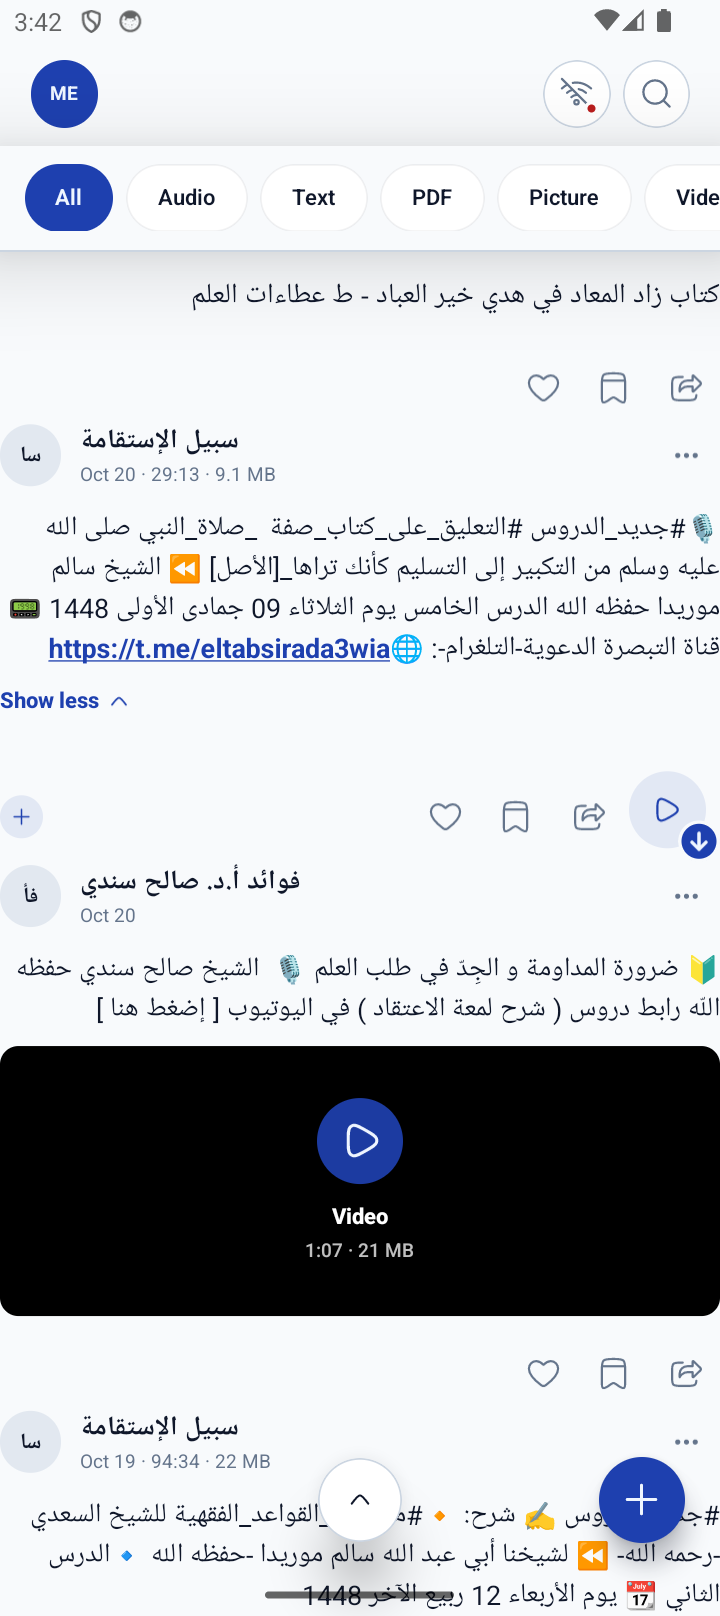
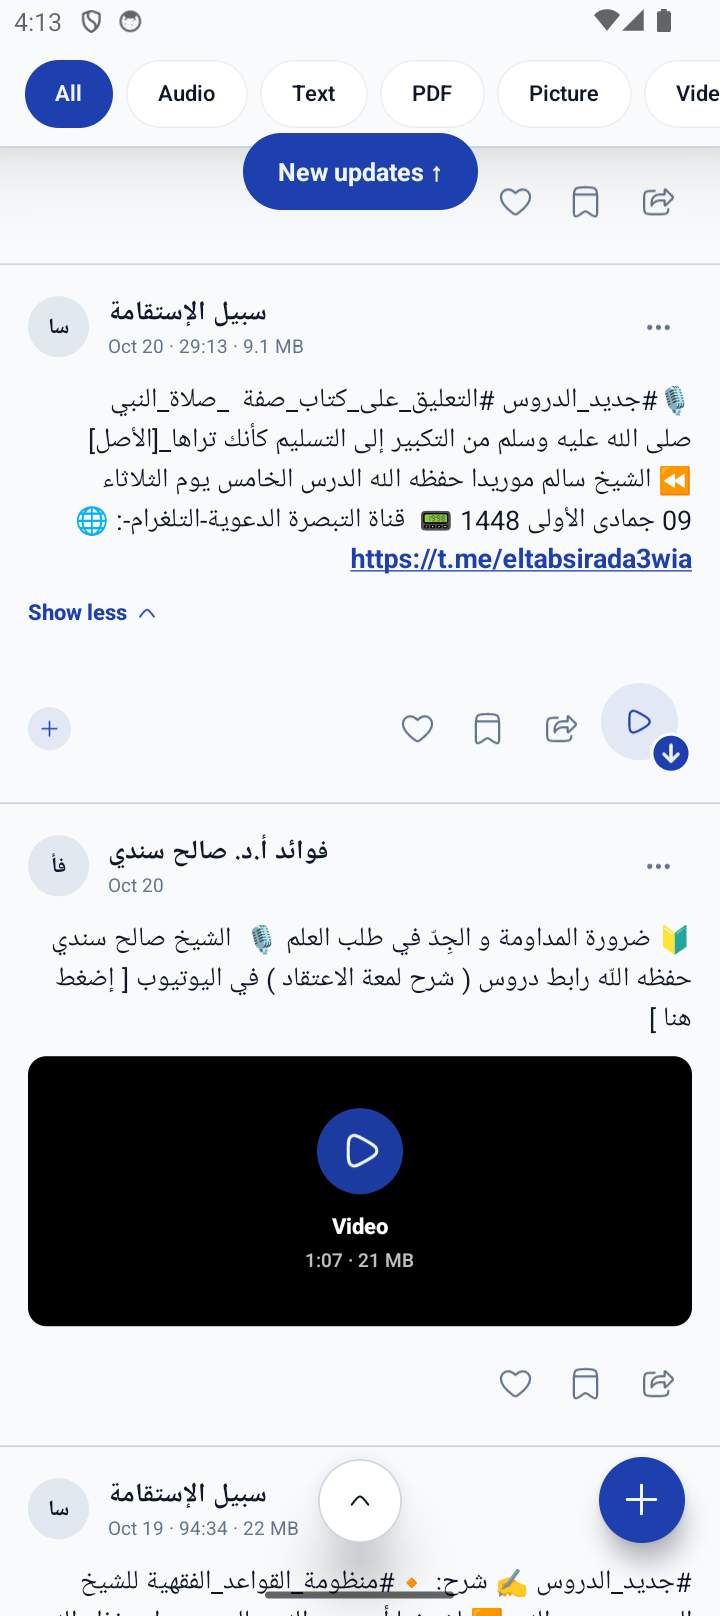
fix(mobile): preserve native card gutters through press styling
Use static card geometry with the existing Android ripple instead of a style callback that NativeWind drops. Extend the native expansion check to assert the content gutter. Rechecked full Play bounds and gutters on Samsung and emulator, and passed scoped lint plus Android/Hermes export.

diff --git a/apps/expo-app/src/components/blog-card/index.tsx b/apps/expo-app/src/components/blog-card/index.tsx
@@ -176,16 +176,16 @@ export function BlogCard({
 				<Pressable
 					disabled={isDeletingRef.current}
 					onPress={handlePress}
-					style={({ pressed }) => ({
+					style={{
             borderBottomWidth: 1,
             paddingHorizontal: 16,
             paddingVertical: 16,
-						backgroundColor: pressed ? colors.muted : colors.background,
+						backgroundColor: colors.background,
             borderBottomColor:
               colors.background === "rgb(10, 10, 10)"
                 ? "rgba(255, 255, 255, 0.06)"
                 : colors.border,
-					})}
+					}}
 				>
 					<CardHeader
 						post={post}

diff --git a/.brain/tasks/2026-10-28-android-scroll-rendering.md b/.brain/tasks/2026-10-28-android-scroll-rendering.md
@@ -30,8 +30,9 @@ The first foreground physical-feed four-swipe run reported 44/181 missed frame d
 - Emulator Android 14/API 34, 720×1616, 280 dpi: real feed/card expansion, vertical scroll/reversal, populated channels, album grid/detail (11 tracks), cached book reader, search result cards, 50-entry play history, storage and channel configuration. Search keyboard dismissal was required before selecting a channel; the results list then loaded 2,584 audio posts. The transcription queue had zero jobs and playlists were empty, so those checks cover empty states rather than populated swipe rows.
 - Book reader content was cached locally (five pages); it is a reader visual/navigation check, not acceptance of every long continuous-reader scenario. No universal claim that all routes/states are flicker-free is made.
 - Timing experiments used the same warm cached feed and four-swipe sequence. Frame statistics remained variable; no reliable overall FPS gain was established. Initial physical, emulator, reduced-motion and normal-motion samples are not interchangeable benchmarks.
-- Physical Samsung SM-S928U1 reconnected and loaded the final bundle: the same-row expansion checker passed at 124 physical pixels against the required 123. Four guarded native swipes rendered 188 frames with 33 deadline misses; different visible content/warm-up means this is not evidence of a quantitative improvement over the initial run. Final physical evidence is under `physical-expanded-fixed` and `physical-final-frames` in the artifact directory.
+- Physical Samsung SM-S928U1 reconnected and loaded the final bundle: the same-row expansion checker passed at 124 physical pixels against the required 123. A guarded sample before the final spacing correction rendered 188 frames with 33 deadline misses; different visible content/warm-up means this is not evidence of a quantitative improvement over the initial run. Final physical evidence is under `physical-expanded-fixed` and `physical-final-frames` in the artifact directory.
 - Light and Dark native card checks passed. Dark feed motion frames and album-grid captures were reviewed; the populated search screenshot contains real results. Temporary benchmark/debug probes and rejected optimization code were removed. Emulator animation settings were restored to their original zero values; the emulator remains running for reuse.
+- Final static-style correction preserves the native content gutter: 45 pixels on the Samsung and 28 on the emulator; expanded Play remains 124/77 pixels respectively. The checker now asserts the gutter as well as the same-row button bounds. Native ripple remains the press feedback. Scoped lint and the final Android/Hermes export passed after this correction.
 - Brain impact and ownership review complete. Only this task's code, documentation and selected durable evidence are included in the local commit. Earlier working-tree edits remain separate.
 
 ## Brain Impact

diff --git a/.brain/features/scroll-rendering.md b/.brain/features/scroll-rendering.md
@@ -10,6 +10,7 @@ Shared Expo scroll chrome, blog/search cards, album swipe rows and transcription
 - The playing feed post selects its current transcript text. Inactive/paused previews select `null`; position ticks within the same segment do not change the selected value.
 - Scroll-to-top visibility is published only at threshold transitions. Shared scroll wrappers do not track this unused control. Home delegates player/header direction tracking to the shared hook instead of maintaining a second accumulator.
 - Audio-bar scroll notifications are idempotent for the same state/owner. An outgoing screen still cannot reveal a player hidden by a newer owner.
+- Card geometry uses a static style object through the NativeWind-backed Pressable; native Android ripple supplies press feedback without losing the content gutter.
 - The feed renderer uses stable dependencies. Cards without delete behavior omit their hidden right-action content. Card and preview elements changed here use one styling mechanism per native element.
 
 ## Performance Policy
@@ -22,7 +23,7 @@ The October 28 investigation trialed a larger render buffer and viewport-specifi
 
 ## Verification
 
-`node scripts/android-scroll-check.mjs emulator-5554 expanded-row /tmp/scroll-row-check` checks a collapsed audio card whose Read more is in the middle of the screen. It expands the card and asserts that that same row's Play/Pause target remains at least 44 dp tall. The original row failed at 27 physical pixels; the fixed row passed at 77 pixels on the 280-dpi emulator. The final Samsung check passed at 124 pixels against its 123-pixel minimum. The checker will not accept a later row's button, a text-only/blocked-audio card, or a different foreground app.
+`node scripts/android-scroll-check.mjs emulator-5554 expanded-row /tmp/scroll-row-check` checks a collapsed audio card whose Read more is in the middle of the screen. It expands the card and asserts that that same row's Play/Pause target remains at least 44 dp tall and its text retains a content gutter. The original row failed at 27 physical pixels; the fixed row passed at 77 pixels on the 280-dpi emulator. The final Samsung check passed at 124 pixels against its 123-pixel minimum. The checker will not accept a later row's button, a text-only/blocked-audio card, or a different foreground app.
 
 `node scripts/android-scroll-check.mjs emulator-5554 frames /tmp/scroll-frames` records a four-swipe native timing run and a settled screenshot. It does not automatically classify blur or establish a performance improvement.
 

diff --git a/artifacts/android-scroll-2026-10-28/verification.md b/artifacts/android-scroll-2026-10-28/verification.md
@@ -7,5 +7,7 @@
 - Native route sweep: feed; populated search results (2,584 audio posts); channels and populated channel timeline; albums and album detail (11 tracks); books and a cached book-reader page; play history (50 rows); book storage; channel configuration; offline search entry. Transcription queue had 0 jobs and playlists were empty, so those checks do not cover populated row interactions.
 - Evidence selected for Git: `expanded-row-original/expanded.png`, `expanded-row-fixed/expanded.png`, `physical-expanded-fixed/expanded.png`, and their result JSON files. Additional route screenshots and a dark-feed scroll recording remain local artifacts in this directory.
 - Twenty focused tests passed; scoped ESLint passed; final Android/Hermes export passed. Full workspace typecheck has existing errors elsewhere and no diagnostics in the task's touched production files or new tests.
-- No FPS gain is claimed. Initial physical observation: 44/181 deadline misses, p95 32 ms. Final guarded physical sample: 33/188 misses, p95 69 ms, with different content/warm-up. Emulator buffer/viewport-activation experiments did not establish a gain and were removed. These are development-build samples, not release benchmarks.
+- No FPS gain is claimed. Initial physical observation: 44/181 deadline misses, p95 32 ms. Guarded physical sample before the final spacing correction: 33/188 misses, p95 69 ms, with different content/warm-up. Emulator buffer/viewport-activation experiments did not establish a gain and were removed. These are development-build samples, not release benchmarks.
 - No API/database changes or deployment. The physical phone's font, theme and animation settings were not changed. The emulator remains running; original settings were restored.
+
+Final gutter validation: static card styles preserve 45 px on Samsung and 28 px on emulator; native Play heights still pass at 124/77 px. The Android checker asserts both geometry properties. Scoped lint and Android/Hermes export passed after the correction.
